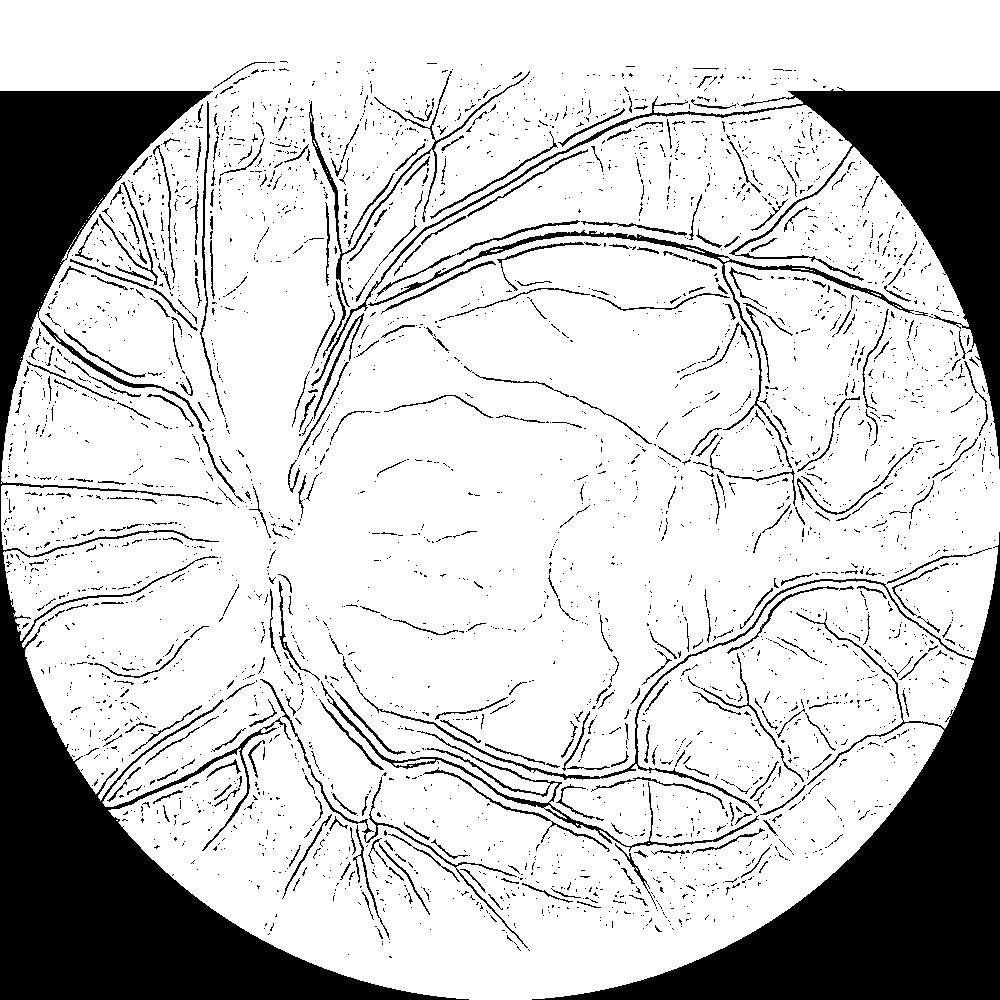
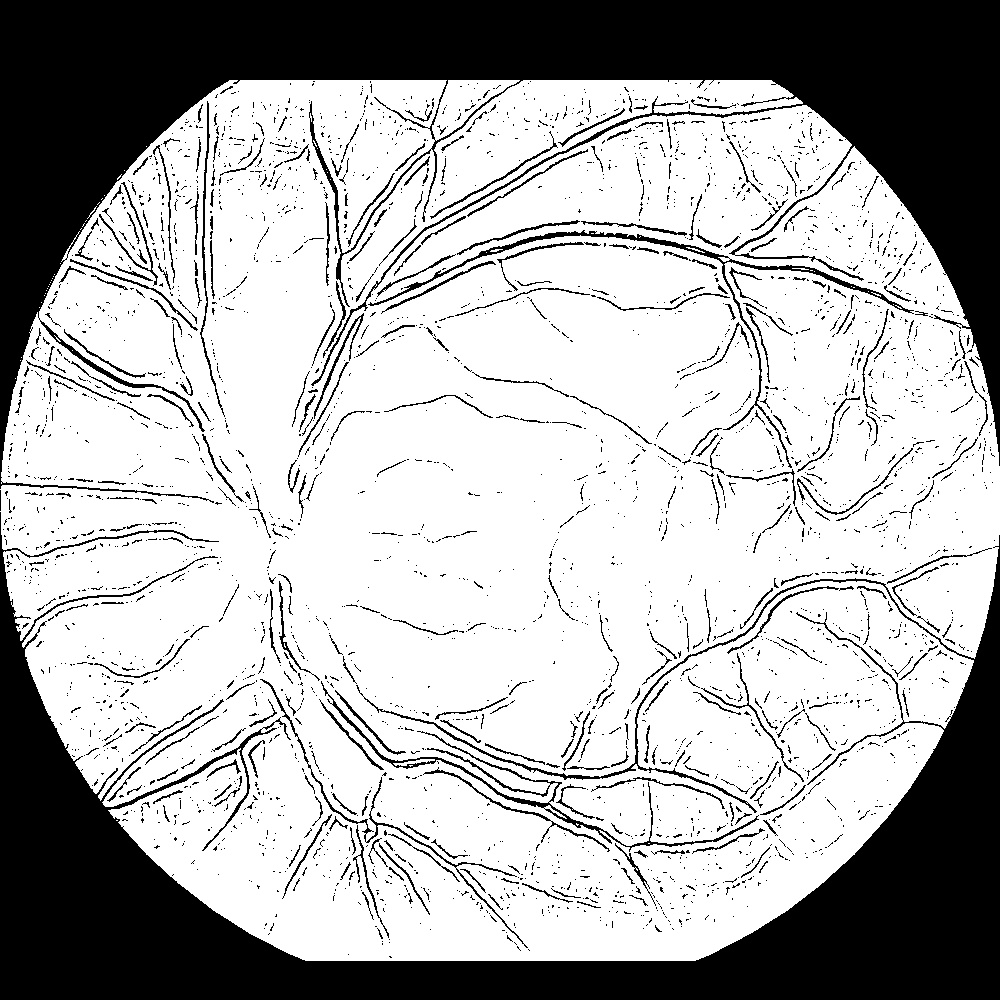
liveshareagain

Changed region(s): [[0.0, 0.0, 1.0, 0.093], [0.31, 0.961, 0.682, 1.0]]

diff --git a/vision.java b/vision.java
@@ -99,14 +99,20 @@ public class vision
 
         //Applies a mask to get rid of the border 
         Point center = new Point(thresh.rows()/2, thresh.cols()/2);
-        Point rect1 = new Point(0, 90);
-        Point rect2 = new Point(thresh.cols(),0);
-        Mat mask = new Mat(thresh.rows(), thresh.cols(), CvType.CV_8U, Scalar.all(0));
-        Imgproc.rectangle(mask, rect1, rect2, new Scalar(255,255,255), -1, 8, 0 );
-        Imgproc.circle(mask, center, thresh.cols()/2, new Scalar(255,255,255), -1, 8, 0 );
+        Point rect1 = new Point(0, 80);
+        Point rect2 = new Point(thresh.cols(),thresh.rows()-40);
+        Mat mask_circ = new Mat(thresh.rows(), thresh.cols(), CvType.CV_8U, Scalar.all(0));
+        Mat mask_rect = new Mat(thresh.rows(), thresh.cols(), CvType.CV_8U, Scalar.all(0));
+
+        Imgproc.circle(mask_circ, center, thresh.cols()/2, new Scalar(255,255,255), -1, 0, 0 );
         Mat masked = new Mat();
-        thresh.copyTo(masked, mask);
-        Imgcodecs.imwrite("mask.jpg", masked);
+        thresh.copyTo(masked, mask_circ);
+
+        Imgproc.rectangle(mask_rect, rect1, rect2, new Scalar(255,255,255), -1);
+        Mat masked_1 = new Mat();
+        masked.copyTo(masked_1, mask_rect);
+
+        Imgcodecs.imwrite("mask.jpg", masked_1);
 
         return img;
 

diff --git a/README.md b/README.md
@@ -1,2 +1,2 @@
 # computervision
-https://prod.liveshare.vsengsaas.visualstudio.com/join?500AA87AC5BB9F05624E0A2FDD360786CE3C
+https://prod.liveshare.vsengsaas.visualstudio.com/join?025125E5BD2D7F3993978E069952480076F7
